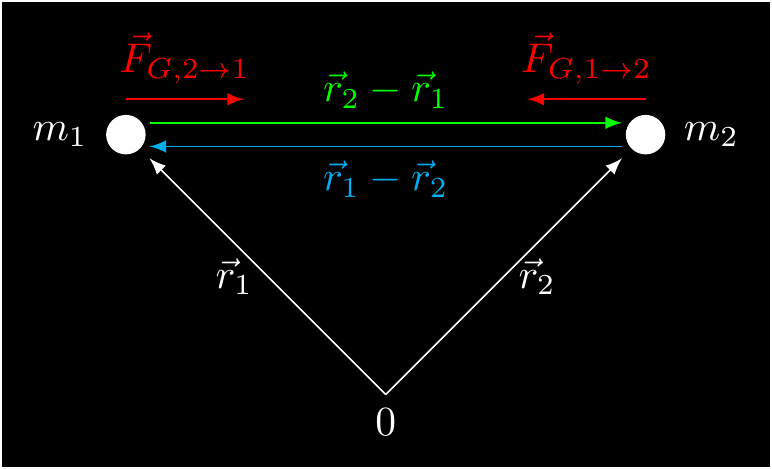
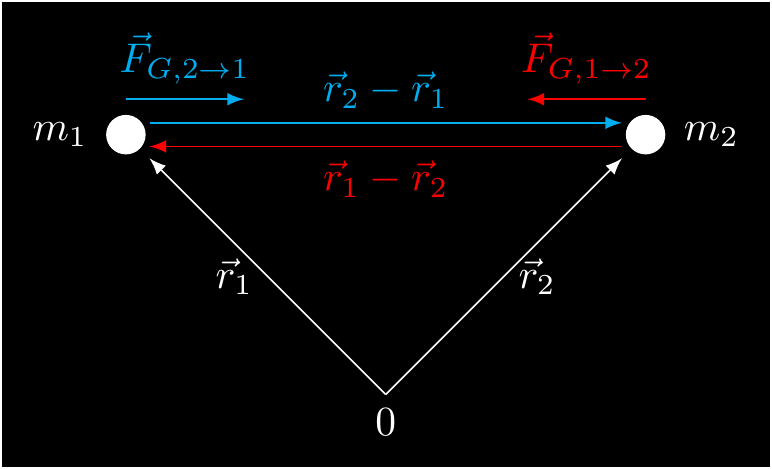
more systematic colors for gravitational force

diff --git a/mechanics/gravitational-force/gravitational-force.tex b/mechanics/gravitational-force/gravitational-force.tex
@@ -11,11 +11,11 @@
   \draw[->] (0,0) -- node[right] {$\place_2$} (1,1);
   \draw[fill,black] (-1,1)+(-0.1,0.1) circle (0.08);
   \draw[fill,black] (1,1)+(0.1,0.1) circle (0.08);
-  \draw[->,green] (-1,1.15) -- node[above] {$\place_2-\place_1$} (1,1.15);
-  \draw[->,blue] (1,1.05) -- node[below] {$\place_1-\place_2$} (-1,1.05);
+  \draw[->,blue] (-1,1.15) -- node[above] {$\place_2-\place_1$} (+1,1.15);
+  \draw[->,red]  (+1,1.05) -- node[below] {$\place_1-\place_2$} (-1,1.05);
   \draw (-1.2,1.1) node[left] {$m_1$};
   \draw (1.2,1.1) node[right] {$m_2$};
-  \draw[->,red] (-1.1,1.25) -- node[above] {$\F_{G,2\to 1}$} +(0.5,0);
-  \draw[->,red] (1.1,1.25) -- node[above] {$\F_{G,1\to 2}$} +(-0.5,0);
+  \draw[->,blue] (-1.1,1.25) -- node[above] {$\F_{G,2\to 1}$} +(+0.5,0);
+  \draw[->,red]  (+1.1,1.25) -- node[above] {$\F_{G,1\to 2}$} +(-0.5,0);
 \end{tikzpicture}
 \end{document}

diff --git a/mechanics/gravitational-force/gravitational-force_inverted.tex b/mechanics/gravitational-force/gravitational-force_inverted.tex
@@ -20,11 +20,11 @@
   \draw[->] (0,0) -- node[right] {$\place_2$} (1,1);
   \draw[fill,white] (-1,1)+(-0.1,0.1) circle (0.08);
   \draw[fill,white] (1,1)+(0.1,0.1) circle (0.08);
-  \draw[->,green] (-1,1.15) -- node[above] {$\place_2-\place_1$} (1,1.15);
-  \draw[->,blue] (1,1.05) -- node[below] {$\place_1-\place_2$} (-1,1.05);
+  \draw[->,blue] (-1,1.15) -- node[above] {$\place_2-\place_1$} (+1,1.15);
+  \draw[->,red]  (+1,1.05) -- node[below] {$\place_1-\place_2$} (-1,1.05);
   \draw (-1.2,1.1) node[left] {$m_1$};
   \draw (1.2,1.1) node[right] {$m_2$};
-  \draw[->,red] (-1.1,1.25) -- node[above] {$\F_{G,2\to 1}$} +(0.5,0);
-  \draw[->,red] (1.1,1.25) -- node[above] {$\F_{G,1\to 2}$} +(-0.5,0);
+  \draw[->,blue] (-1.1,1.25) -- node[above] {$\F_{G,2\to 1}$} +(+0.5,0);
+  \draw[->,red]  (+1.1,1.25) -- node[above] {$\F_{G,1\to 2}$} +(-0.5,0);
 \end{tikzpicture}
 \end{document}

diff --git a/mechanics.md b/mechanics.md
@@ -623,12 +623,12 @@
   \draw[->] (0,0) -- node[right] {$\place_2$} (1,1);
   \draw[fill,black] (-1,1)+(-0.1,0.1) circle (0.08);
   \draw[fill,black] (1,1)+(0.1,0.1) circle (0.08);
-  \draw[->,green] (-1,1.15) -- node[above] {$\place_2-\place_1$} (1,1.15);
-  \draw[->,blue] (1,1.05) -- node[below] {$\place_1-\place_2$} (-1,1.05);
+  \draw[->,blue] (-1,1.15) -- node[above] {$\place_2-\place_1$} (+1,1.15);
+  \draw[->,red]  (+1,1.05) -- node[below] {$\place_1-\place_2$} (-1,1.05);
   \draw (-1.2,1.1) node[left] {$m_1$};
   \draw (1.2,1.1) node[right] {$m_2$};
-  \draw[->,red] (-1.1,1.25) -- node[above] {$\F_{G,2\to 1}$} +(0.5,0);
-  \draw[->,red] (1.1,1.25) -- node[above] {$\F_{G,1\to 2}$} +(-0.5,0);
+  \draw[->,blue] (-1.1,1.25) -- node[above] {$\F_{G,2\to 1}$} +(+0.5,0);
+  \draw[->,red]  (+1.1,1.25) -- node[above] {$\F_{G,1\to 2}$} +(-0.5,0);
 \end{tikzpicture}
 \end{document}
 ~~~
@@ -1838,12 +1838,12 @@
   \draw[->] (0,0) -- node[right] {$\place_2$} (1,1);
   \draw[fill,white] (-1,1)+(-0.1,0.1) circle (0.08);
   \draw[fill,white] (1,1)+(0.1,0.1) circle (0.08);
-  \draw[->,green] (-1,1.15) -- node[above] {$\place_2-\place_1$} (1,1.15);
-  \draw[->,blue] (1,1.05) -- node[below] {$\place_1-\place_2$} (-1,1.05);
+  \draw[->,blue] (-1,1.15) -- node[above] {$\place_2-\place_1$} (+1,1.15);
+  \draw[->,red]  (+1,1.05) -- node[below] {$\place_1-\place_2$} (-1,1.05);
   \draw (-1.2,1.1) node[left] {$m_1$};
   \draw (1.2,1.1) node[right] {$m_2$};
-  \draw[->,red] (-1.1,1.25) -- node[above] {$\F_{G,2\to 1}$} +(0.5,0);
-  \draw[->,red] (1.1,1.25) -- node[above] {$\F_{G,1\to 2}$} +(-0.5,0);
+  \draw[->,blue] (-1.1,1.25) -- node[above] {$\F_{G,2\to 1}$} +(+0.5,0);
+  \draw[->,red]  (+1.1,1.25) -- node[above] {$\F_{G,1\to 2}$} +(-0.5,0);
 \end{tikzpicture}
 \end{document}
 ~~~
